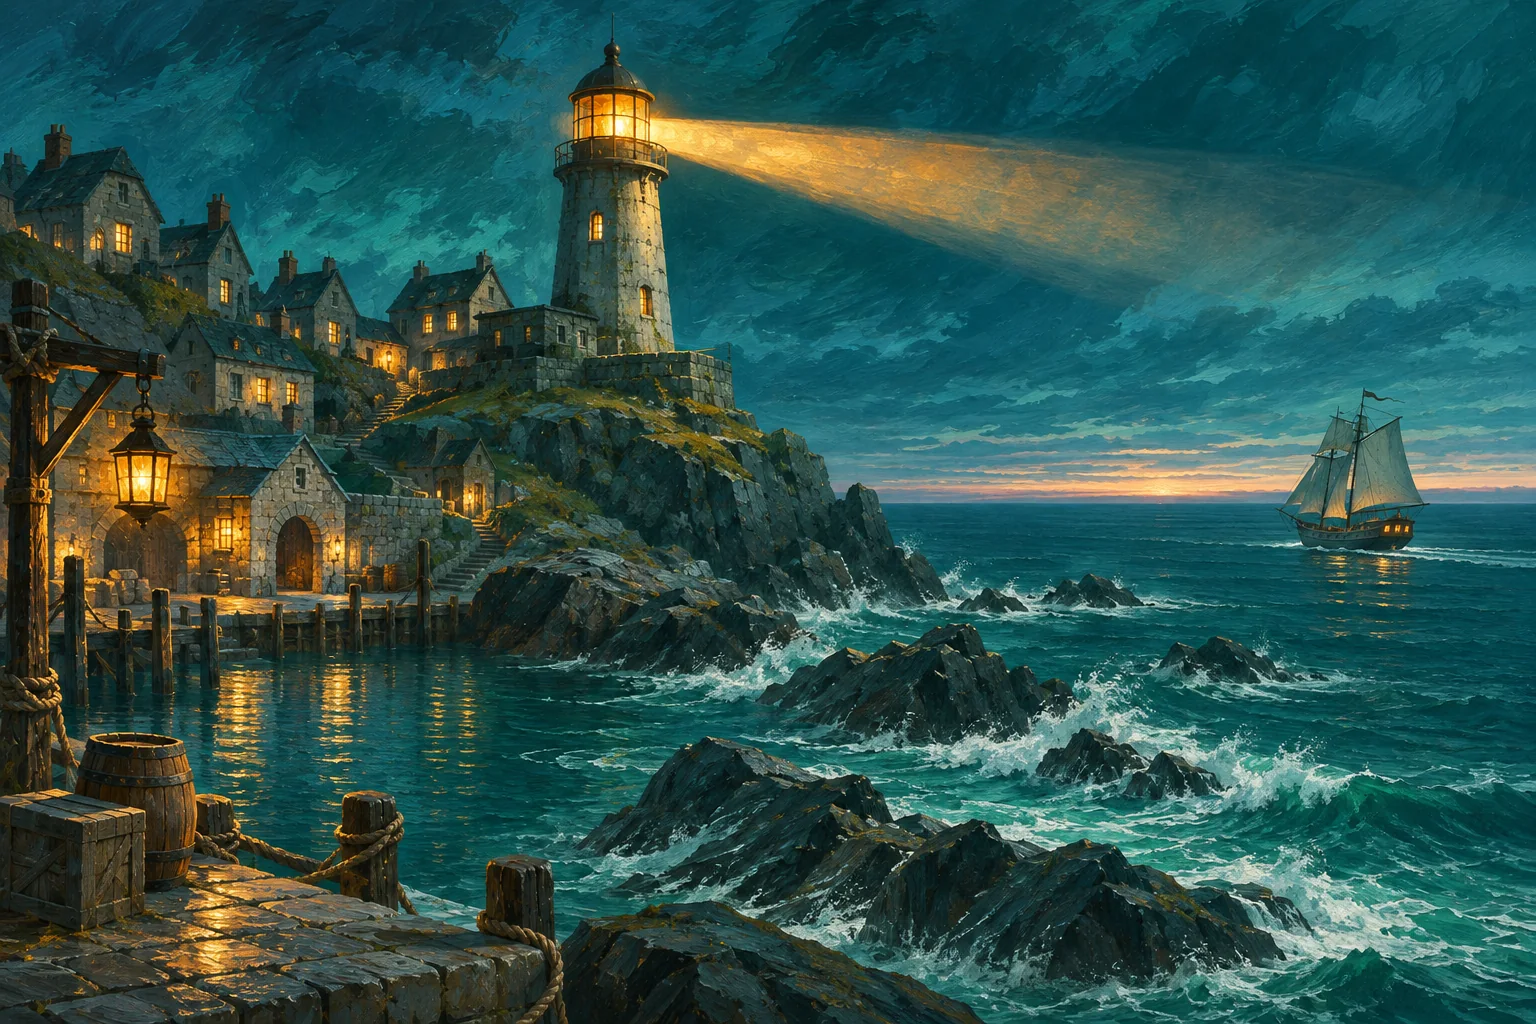
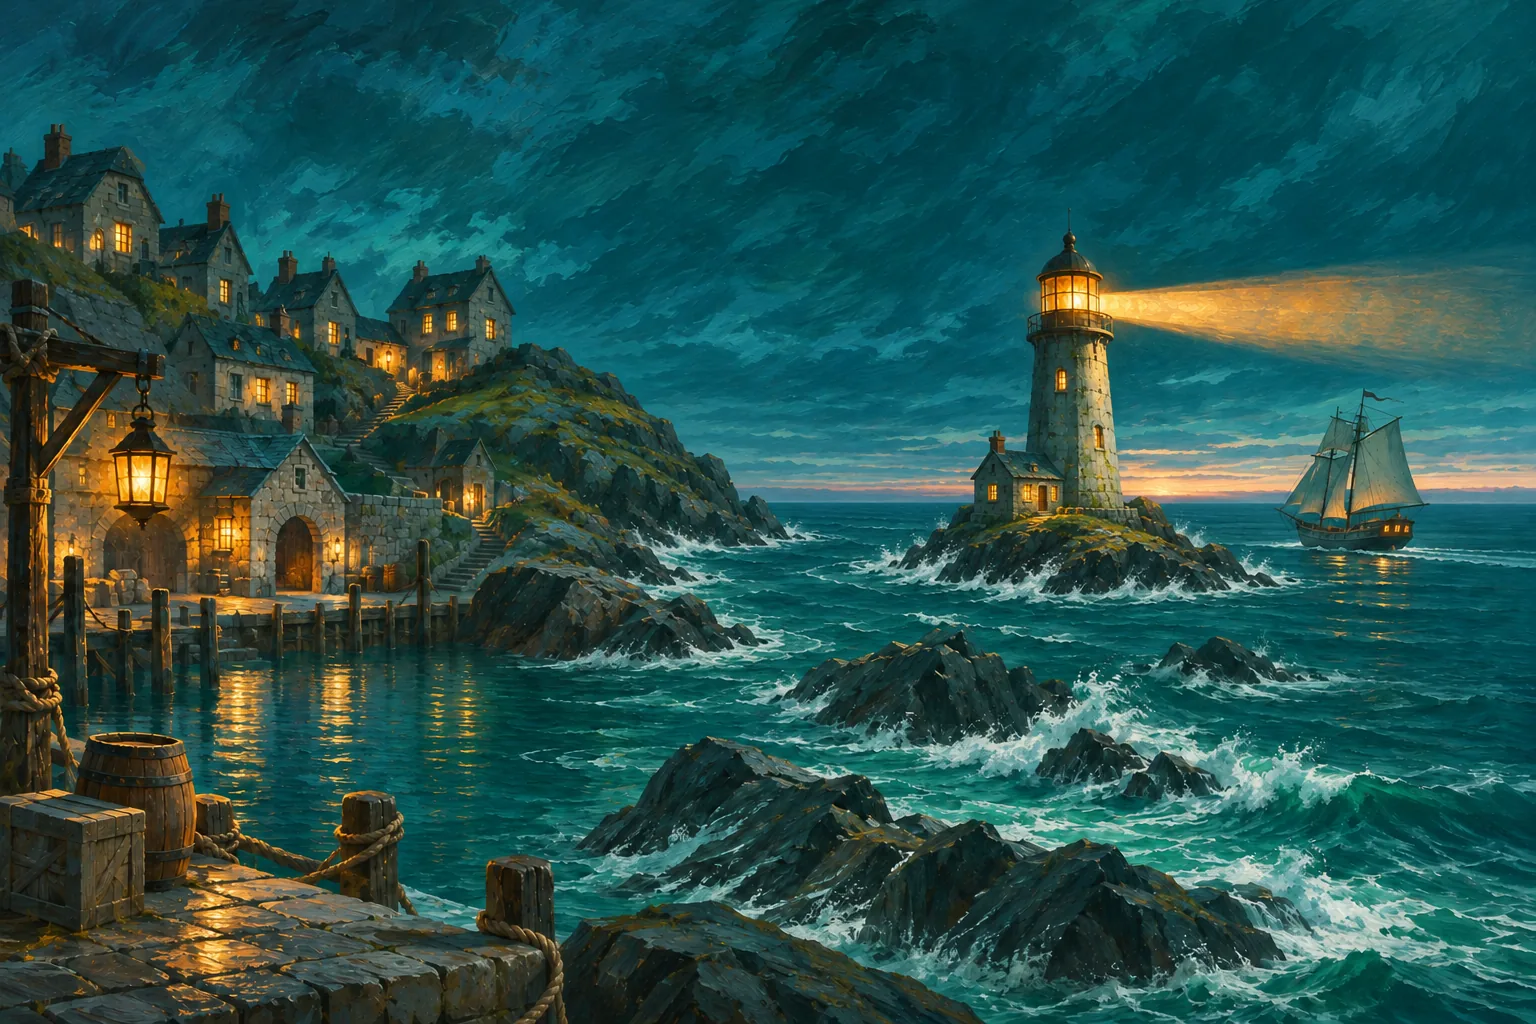
v0.37.1: the lighthouse stands on its own rock off Saltmere's harbour (a tidal islet; the opening's first picture redrawn, its words and the glossary say so), and on a phone the title shows the lighthouse and the keeper instead of the middle of the sea

diff --git a/js/data.js b/js/data.js
@@ -1187,8 +1187,8 @@
   BL.STORY = {
     title: 'An enchanted bell, sunk under the cliffs, has stolen the fire from your lighthouse, and it is pulling the sea up toward the town. You are the last keeper. Go down and take the fire back.',
     opening: [
-      { art: 'scenes/op_lighthouse', pos: '36% center', wide: 'center top', zoom: 1.08,
-        text: 'You are Wren, the lighthouse keeper of Saltmere, a harbour town on a rocky coast. The lighthouse burns a magic fire called the Lantern Heart. While it burns, ships find their way past the rocks.' },
+      { art: 'scenes/op_lighthouse', pos: '68% center', wide: 'center top', zoom: 1.08,
+        text: 'You are Wren, the lighthouse keeper of Saltmere, a harbour town on a rocky coast. The lighthouse stands on a rock off the harbour, and it burns a magic fire called the Lantern Heart. While it burns, ships find their way past the rocks.' },
       { art: 'scenes/op_bell', pos: 'center', wide: 'center top', zoom: 1.08,
         text: 'In the sea-caves under the cliffs hangs an enchanted bell, the Bellwether. Keepers sank it there long ago to hold the sea back. Nobody has tended it for a hundred years.' },
       { art: 'scenes/op_fire', pos: '28% center', wide: '30% center', zoom: 1.08, sfx: 'bell',
@@ -1225,7 +1225,7 @@
           text: 'The Bellwether\'s bronze breaks, and the Lantern Heart\'s light pours out through the water. Something lets go of it: a thing with one eye and many arms, which grew into the bell in the hundred years nobody came down. It sinks away into the dark under the floor. You do not know if you killed it.' },
         { art: 'scenes/sc_heart2', pos: '68% center', wide: 'center 25%', zoom: 1.04,
           text: 'You carry the Heart up three levels of stairs. The water runs away in front of it.' },
-        { art: 'scenes/op_lighthouse', pos: '36% center', wide: 'center top', zoom: 1.08,
+        { art: 'scenes/op_lighthouse', pos: '68% center', wide: 'center top', zoom: 1.08,
           text: 'By dawn the great light of Saltmere is turning again, and the sea has stopped rising. The boats go out past the rocks.' },
         { art: 'scenes/ev_heartglow', pos: 'center', wide: 'center 60%', zoom: 1.04,
           text: 'The Bellwether is silent. But in the Belfry a faint light stayed behind where the Heart lay, and things still grow toward it. Saltmere will need a keeper who goes down.' },
@@ -1234,7 +1234,7 @@
       watch: { at: 'quiet', beats: [
         { art: 'scenes/sc_watch1', pos: 'center', wide: 'center 30%', zoom: 1.04, sfx: 'bell',
           text: 'Under the broken bell, the keeper in your coat lowers your harpoon. For a moment its lantern is lit, from yours, and you see its face. Then it goes out like a pinched wick, and there is only water where it stood.' },
-        { art: 'scenes/op_lighthouse', pos: '36% center', wide: 'center top', zoom: 1.08,
+        { art: 'scenes/op_lighthouse', pos: '68% center', wide: 'center top', zoom: 1.08,
           text: 'You climb home. The great light is turning, as it has every night since the Heart came home. In the keeper\'s room you turn the watch glass over, and for the first time since that night you sleep through to morning.' },
       ] },
     },
@@ -1283,8 +1283,8 @@
     ],
     world: [
       { group: 'Places', items: [
-        ['Saltmere', 'A harbour town on a rocky headland. Its lighthouse warns ships off the rocks.'],
-        ['The lighthouse', 'It stands above the town, and you keep it. Its lamp burns the Lantern Heart.'],
+        ['Saltmere', 'A harbour town on a rocky headland. Its lighthouse stands on a rock off the end of the headland and warns ships off the rocks.'],
+        ['The lighthouse', 'It stands on its own rock off the harbour, and you keep it. At low tide you can walk across to the town. Its lamp burns the Lantern Heart.'],
         ['The Drowned Reach', 'The sea-caves, stairs and rock terraces under the cliffs, below the lighthouse. The Bellwether keeps them flooded.'],
         ['Expeditions', 'Every expedition starts on the shore and goes down through the Reach a level at a time: the Shallows, then Dark Water, then the Belfry. You can go home after any pin, with everything you carry. The next expedition starts on the shore again.',
           { level: 2, before: 'Every expedition starts on the shore and goes down through the Reach a level at a time, from the Shallows. You can go home after any pin, with everything you carry. The next expedition starts on the shore again.' }],

diff --git a/js/version.js b/js/version.js
@@ -5,8 +5,12 @@
 (function () {
   'use strict';
   const BL = (globalThis.BL = globalThis.BL || {});
-  BL.VERSION = '0.37.0';
+  BL.VERSION = '0.37.1';
   BL.CHANGELOG = [
+    { v: '0.37.1', date: '2026-11-16', items: [
+      'The lighthouse stands on its own rock off Saltmere\'s harbour, as on the title screen. The opening\'s first picture is redrawn to show it, and its words say so.',
+      'On a phone the title screen shows the lighthouse and the keeper. Before, it showed only the middle of the sea.',
+    ] },
     { v: '0.37.0', date: '2026-11-16', items: [
       'The Belfry is a short dive. No branches, no shops, no Coves: the Drowned Ringer with a Bell Jelly, then the Crowned Oarfish with a Bellspawn, then the Bellwether, 5 landings in all. Each landing there scores 128, so the whole Belfry pays what its 8 landings did.',
       'After each Dread in the Belfry you come up under a lesser bell, where air is caught. Choose one of six: rest, refit, shed a card, fill your flasks, give a keepsake to the sea, or swim out into the dark to one of the Belfry\'s Fog events.',

diff --git a/style.css b/style.css
@@ -111,6 +111,8 @@ h1, h2, h3 { font-family: var(--serif); font-weight: 700; margin: 0; }
   background: #06121c url(img/bg/bg_title.webp) center/cover no-repeat; text-align: center; padding: 24px 24px 12px;
 }
 .title-screen.lit { background-image: url(img/bg/bg_title_lit.webp); }
+/* on a tall screen the picture is cropped to a strip; show the lighthouse and the keeper, not the middle of the sea */
+@media (max-aspect-ratio: 1/1) { .title-screen { background-position: 22% center; } }
 .title-screen .logo { margin-top: auto; }
 .title-screen::before { content: ""; position: absolute; inset: 0; background: radial-gradient(ellipse at 50% 40%, rgba(5, 15, 24, .15), rgba(5, 15, 24, .85) 75%); }
 .title-screen > * { position: relative; }

diff --git a/WORLD.md b/WORLD.md
@@ -117,6 +117,8 @@ The current game (v0.19.0) tells this story in a shorter shape: an expedition of
 
 Saltmere stands on a headland beside a working sea. The Drowned Reach is a series of coastal rock terraces, or bands. These are above the outside sea level, not holes in the seabed. At the start of the story, the Bellwether is holding seawater in the inner chambers.
 
+- **Agreed (2026-11-16, the user's call; the agent's wording):** The lighthouse stands on its own rock islet just off the end of the headland, at the harbour mouth, with the keeper's cottage at its foot. At high tide it is cut off by a channel of rough water; at low tide a spit of wet rock joins it to the foreshore, and the keeper walks across. The keepers' stairs go down from the foot of the cliff into the Reach. This replaces "the lighthouse stands on the headland above the town". From far along the shore its rock reads as the end of the headland, which is how the Shallows' fight picture shows it.
+- **In the game (v0.37.1):** the opening's first picture shows the lighthouse on its islet off Saltmere's harbour, the town on the headland behind (until v0.37.0 it stood on the headland itself). The opening's first line says it stands on a rock off the harbour, and the glossary's Saltmere and lighthouse entries say so too, the lighthouse's with the walk across at low tide. The title screen already showed it on a rock in the sea.
 - **Agreed:** The lighthouse warns ships away from the rocks. It can do that whether or not the Reach is dry. Ordinary low tide uncovers the Shallows: rock, pools, and the sea below the cliff.
 - **In the game (v0.23.0):** The Shallows' fight picture is that foreshore at night: wet rock shelves, pools and kelp, the keepers' first stair cut into the cliff, and the lighthouse dark on the headland. The Harbour Hermit's lock is a rock basin under the cliff, held brim-full and still above the tide, with an old stair going down into it. (Until v0.22.0 both pictures were under water, left over from an older version of the game in which Wren swam.)
 - **Agreed:** Below the Shallows, the coast has been wet for a long time. Its old stairs, quay, wrecks, and cold-shore animals existed before the current ringing and its pins. The keepers built the stairs and the quay. The Lost Lamplighter's cold lantern belongs to that older coast.

diff --git a/GAME_NOTES.md b/GAME_NOTES.md
@@ -2281,3 +2281,10 @@ The user asked how more characters could be added, and wanted to judge the look 
 - Low Water rework: is an Ebb deck now worth building? Do you miss Low Water's Ward? Does the strip read clearly when it happens?
 - Do you notice Tidal Fury and Deep Ebb when you earn them?
 - On reward screens, does the keyword legend help, or is it clutter?
+
+### The lighthouse on its islet, and the title on a phone (v0.37.1, 2026-11-16)
+
+- The user asked whether the lonely lighthouse on the title (on a rock in the sea) clashed with the opening (on the headland in the town). They chose to move it: the opening's first picture is a Codex edit of the old one with the tower out on its own islet (`assets-src/scenes/op_lighthouse.png`; the old one is `op_lighthouse_headland.png`). The lore is in WORLD.md: a tidal islet, joined to the foreshore at low tide. The Shallows' fight picture still shows it at the end of the headland from far off; WORLD.md says that is how it looks from along the shore. Redraw it only if it bothers anyone.
+- On tall screens the title picture is cropped to a strip. It was centred, so a phone saw the sea and the bell's side and no lighthouse. Now `background-position: 22% center` there (the lighthouse and Wren; on the lit title the start of the beam). The opening's lighthouse moved right, so its tall-screen `pos` is 68% (was 36%).
+- Title picture candidates from the same day are in `assets-src/bg/` (`bg_title_alt_*`, `bg_title_gemini*`). The user was not fully happy with any and may edit one by hand; the game still uses the original title and its lit version.
+
